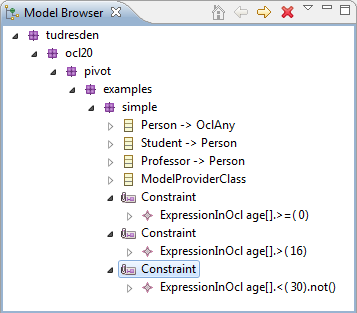
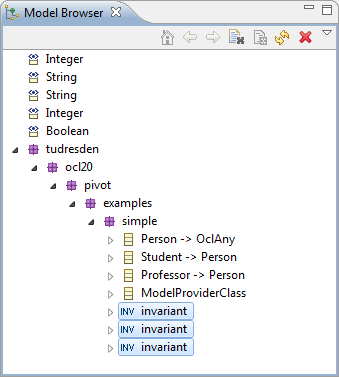
Revised manual w.r.t. changes in GUI.

Changed region(s): [[0.0, 0.0, 1.0, 0.9489], [0.0, 0.9776, 1.0, 1.0], [0.0295, 0.3738, 0.059, 0.4026]]

diff --git a/ocl20forEclipse/doc/tex/chapters/interpretation.tex b/ocl20forEclipse/doc/tex/chapters/interpretation.tex
@@ -161,25 +161,15 @@ explained below.
 	\caption{The OCL2 Interpreter View containing no results.}
 	\label{pic:interpret:interpret01}
 
-  \vspace{2.0em}
+  \vspace{3.0em}
   
 	\centering
 	\includegraphics[width=0.5\linewidth]{figures/interpreter/interpret02}
 	\caption{The Buttons to Control the OCL2 Interpreter.}
 	\label{pic:interpret:interpret02}
-	
-  \vspace{2.0em}
 
-	\centering
-	\includegraphics[width=0.6\linewidth]{figures/interpreter/interpret03}
-	\caption{The three Invariants selected in the Model Browser.}
-	\label{pic:interpret:interpret03}
-\end{figure}
+  \vspace{3.0em}
 
-
-\subsection{Interpretation of Constraints}
-
-\begin{figure}[!p]
 	\centering
 	\includegraphics[width=1.0\linewidth]{figures/interpreter/interpret04}
 	\caption{The results of the three Invariants for all Model Instance Elements.}
@@ -188,24 +178,20 @@ explained below.
   \vspace{3.0em}
 
 	\centering
-	\includegraphics[width=0.4\linewidth]{figures/interpreter/interpret06}
-	\caption{The Definition selected in the Model Browser.}
-	\label{pic:interpret:interpret06}
-
-  \vspace{3.0em}
-  
-	\centering
 	\includegraphics[width=1.0\linewidth]{figures/interpreter/interpret07}
 	\caption{The results of the Definition for all Model Instance Elements.}
 	\label{pic:interpret:interpret07}
+
 \end{figure}
+
+
+\subsection{Interpretation of Constraints}
 
 To interpret constraints, we simple select them in the \eclipse{Model Browser} 
 and push the button to interpret constraints (the third button from the left). 
 First, we want to interpret the three invariants defining the range of the 
 \model{age} of \model{Persons}, \model{Students} and \model{Professors}. We 
-select them in the \eclipse{Model Browser} (see 
-Figure~\ref{pic:interpret:interpret03}) and push the \eclipse{Interpret} button.
+select them in the \eclipse{Model Browser} and push the \eclipse{Interpret} button.
 The result of the interpretation is now shown in the \eclipse{\acs{OCL}
 Interpreter View} (see Figure~\ref{pic:interpret:interpret04}).
 
@@ -229,8 +215,7 @@ define new attributes and methods or to initialize attributes and methods. Such
 constraints that shall be interpreted. The \model{allConstraints.ocl} file 
 contains a definition constraint, which defines the method \model{getAge()} for 
 the class \model{Person}. Now, we want to interpret this definition constraint. 
-We select the constraint in the \eclipse{Model Browser} (see 
-Figure~\ref{pic:interpret:interpret06}) and push the \eclipse{Interpret} button.
+We select the constraint in the \eclipse{Model Browser} and push the \eclipse{Interpret} button.
 The result of the interpretation is shown in 
 Figure~\ref{pic:interpret:interpret07}. The interpretation finishes for all
 three instances successfully because the attribute \model{age} has been set for 

diff --git a/ocl20forEclipse/doc/tex/chapters/introduction.tex b/ocl20forEclipse/doc/tex/chapters/introduction.tex
@@ -329,7 +329,7 @@ endpackage
 	\vspace{3.0em}
 	
 	\centering
-	\includegraphics[width=0.5\linewidth]{figures/introduction/loadconstraints02}
+	\includegraphics[width=0.4\linewidth]{figures/introduction/loadconstraints02}
 	\caption{Parsed expressions and the model in the Model Browser.}
 	\label{pic:intro:loadconstraints02}
 \end{figure}
@@ -340,7 +340,7 @@ endpackage
 	\caption{How to remove Constraints from a Model again.}
 	\label{pic:intro:loadconstraints03}
 \end{figure}
-	
+
 	
 
 \section{Summary}
